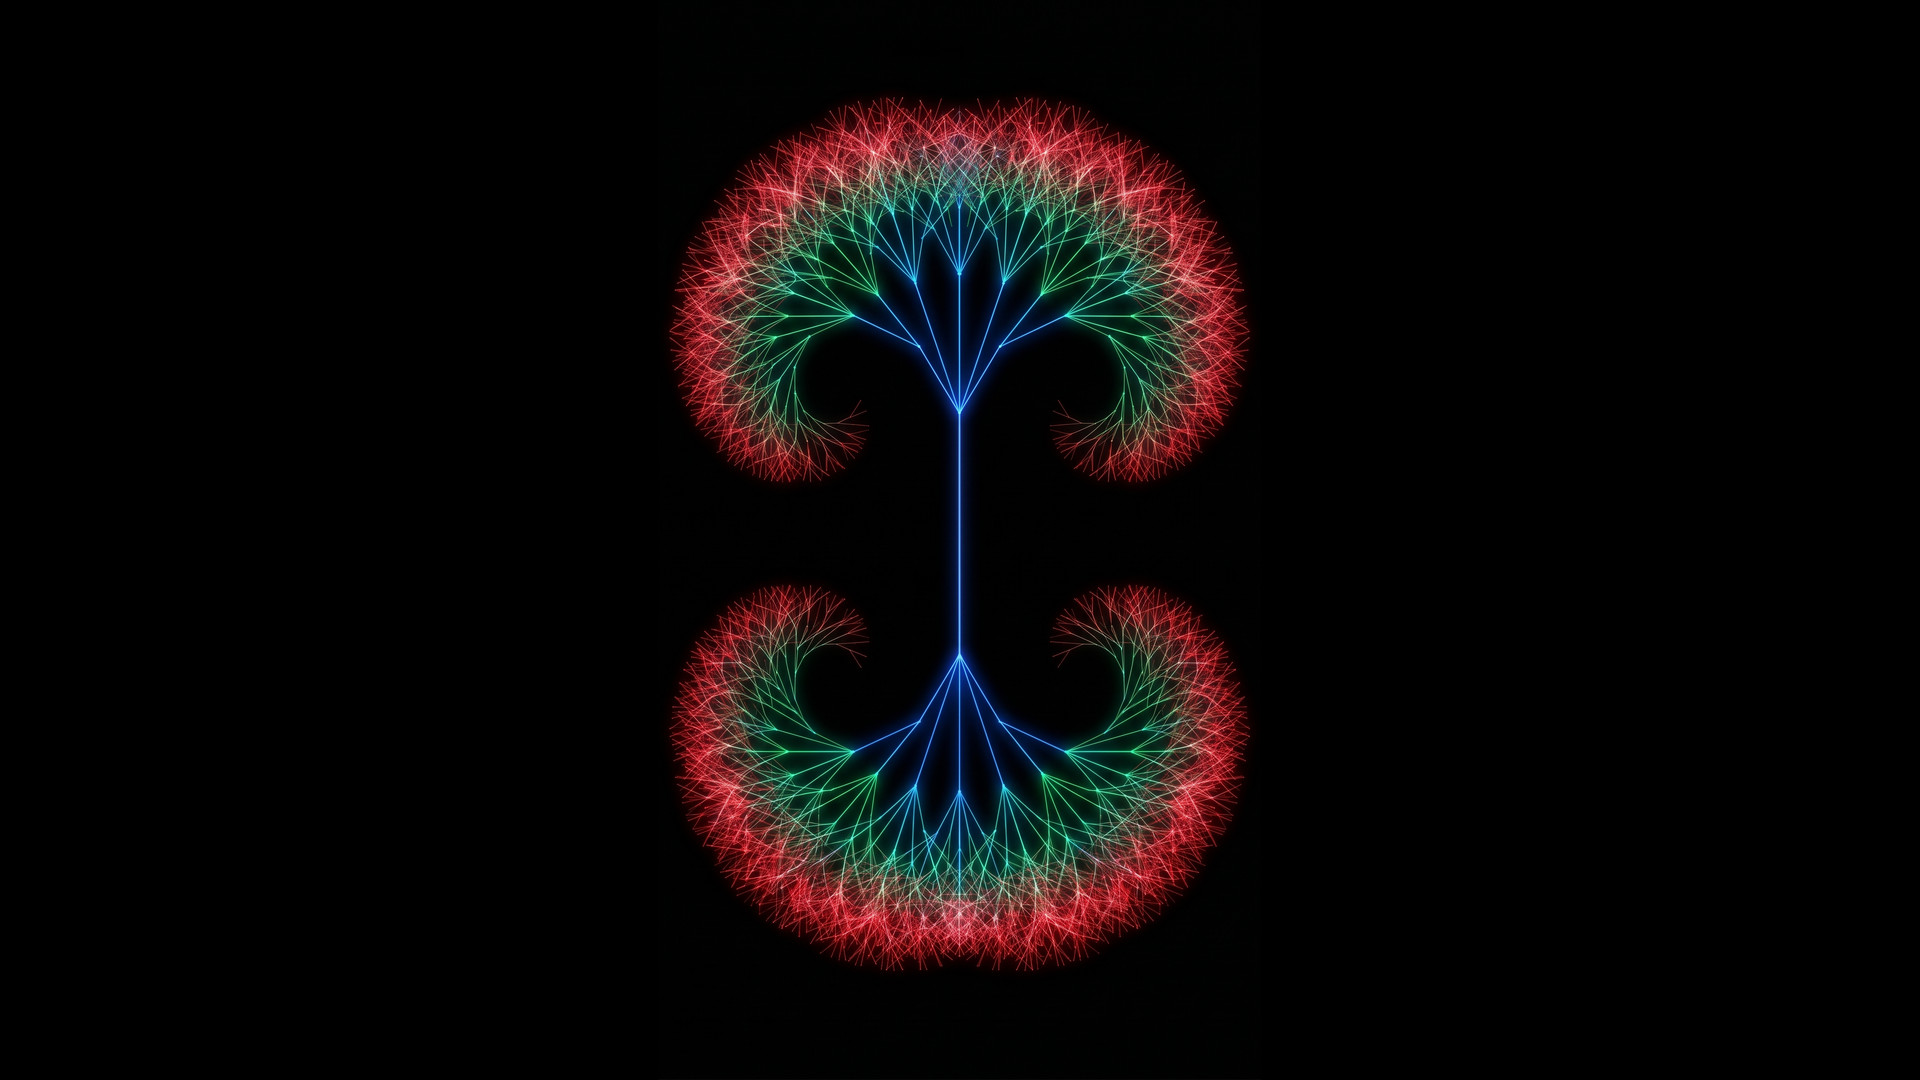
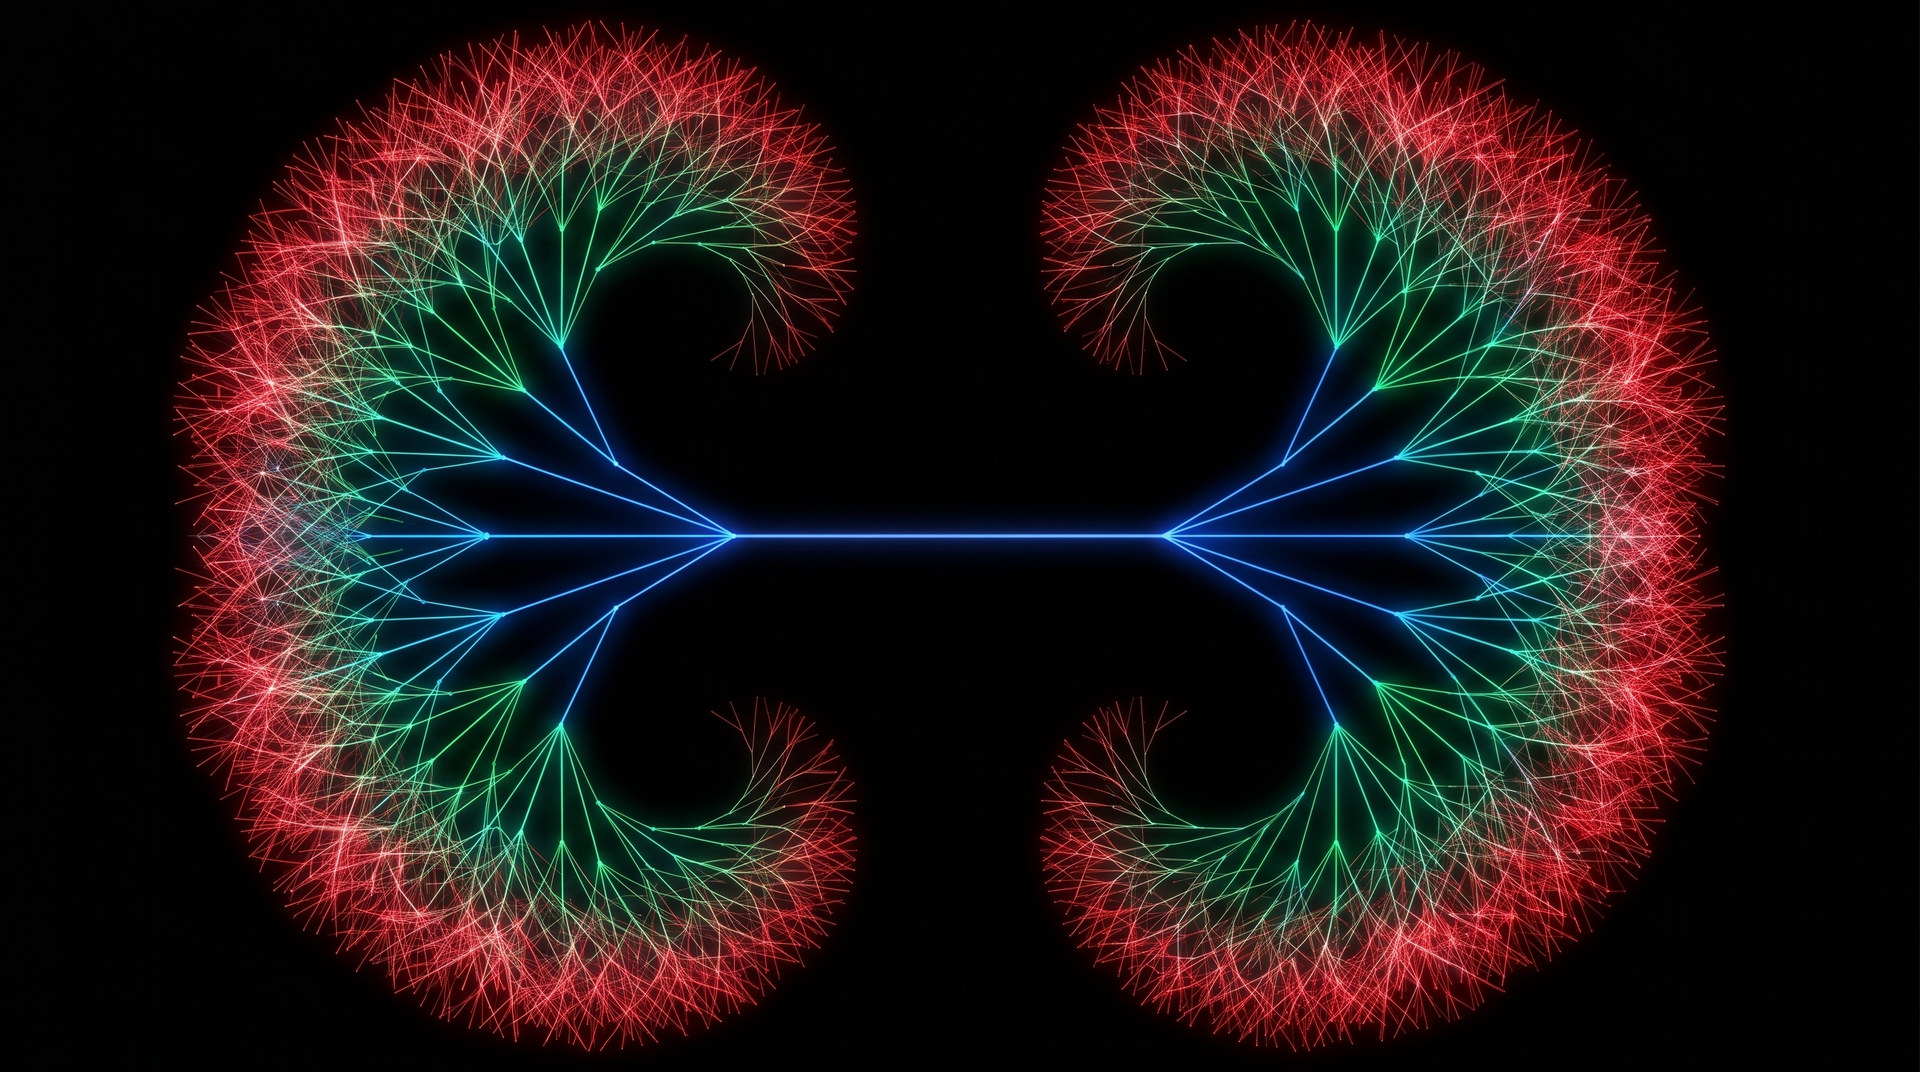
05_water_trace: landscape bg = tree rotated 90deg (fills PC); re-eval bg on fullscreen/rotate

diff --git a/05_water_trace/app.js b/05_water_trace/app.js
@@ -228,6 +228,9 @@
   }
   window.addEventListener("resize", resize);
   window.addEventListener("orientationchange", resize);
+  // 전체화면 진입/이탈(특히 폰에서 가로 회전) 시에도 방향 재평가 → 가로/세로 배경 fit
+  document.addEventListener("fullscreenchange", resize);
+  document.addEventListener("webkitfullscreenchange", resize);
 
   // ---------------------------------------------------------------
   // 파동 발생 (Res_mc 흰 원 스탬프)